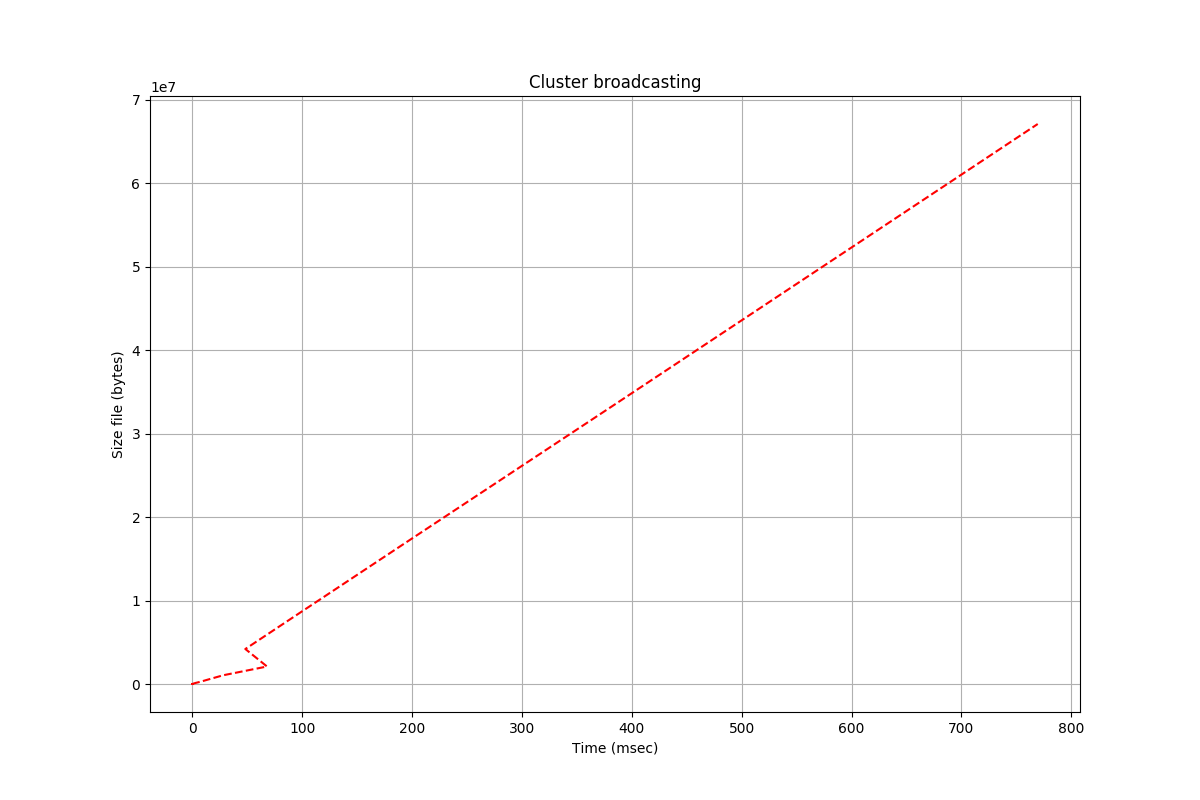
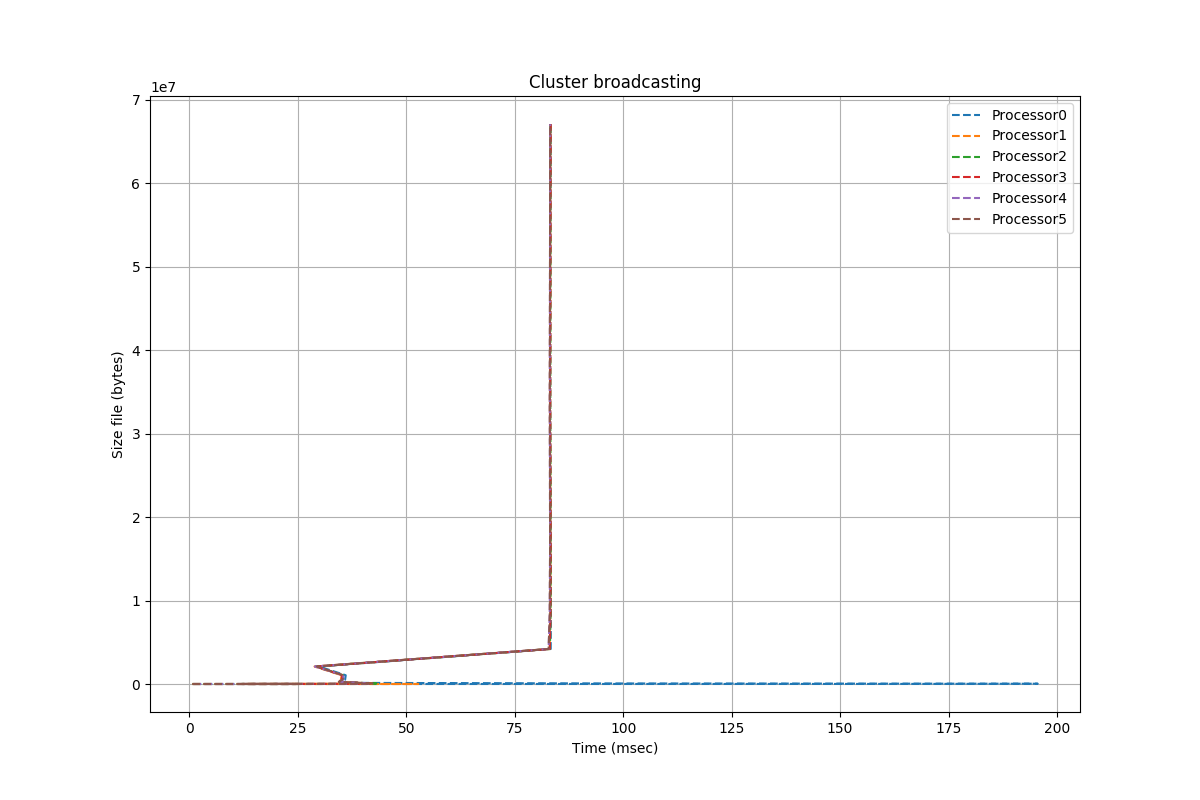
add a matplotlib solution to MPI broadcast and gather

diff --git a/samples/basic/samples-python/visualization/print_barrier.py b/samples/basic/samples-python/visualization/print_barrier.py
@@ -10,18 +10,25 @@ import csv
 import pandas as pd
 
 class GraphicsGenerator:
-    def __init__(self, file_in, file_out, number_processor):
+    def __init__(self, file_in, file_out):
         self.file_in = file_in
         self.file_out = file_out
-        self.number_processor = number_processor
         self.df = pd.read_csv('../post_processing/'+self.file_in+'.csv')
-        self.df1 = self.df[self.df['processor'] == self.number_processor]
+        self.datasets = []
+        self.number_of_processors = self.df['processor'].max() + 1 #becase others loops initiate in 0
 
     def plot_line_graphic(self):
-        linha = self.df1['msec']
-        coluna = self.df1['bytes-length']
+        if (len(self.datasets) == 0):
+            print('dataset empty')
+            return 0;
+        coluna = self.datasets[0]['bytes-length']
         fig, ax = plt.subplots()
-        ax.plot(linha, coluna, linestyle='--', color='r')
+        legend = []
+        for i in xrange(len(self.datasets)):
+            linha = self.datasets[i]['bandwidth']
+            ax.plot(linha, coluna, linestyle='--')
+            legend.append('Processor' + str(i))
+        plt.legend(legend)
         fig.set_size_inches(12, 8, forward=True)
         plt.title('Cluster broadcasting')
         plt.xlabel('Time (msec)')
@@ -31,6 +38,21 @@ class GraphicsGenerator:
         plt.show()
         plt.close()
 
+    def plot_box_graphic(self, columns):
+        plt.style.use('ggplot')
+        self.df1.boxplot(columns)
+        plt.show()
+
+    def plot_corr_graphic(self, columns):
+        self.df1[columns].corr().plot()
+        plt.show()
+
+    def create_dataframes(self):
+        for i in xrange(self.number_of_processors):
+            print(i)
+            self.datasets.append(self.df[self.df['processor'] == i])
+        print(self.number_of_processors)
 if __name__ == '__main__':
-    exportgraphic = GraphicsGenerator('barrier_sync_result', 'cluster_broadcasting', 5)
+    exportgraphic = GraphicsGenerator('barrier_sync_result', 'cluster_broadcasting')
+    exportgraphic.create_dataframes()
     exportgraphic.plot_line_graphic()
